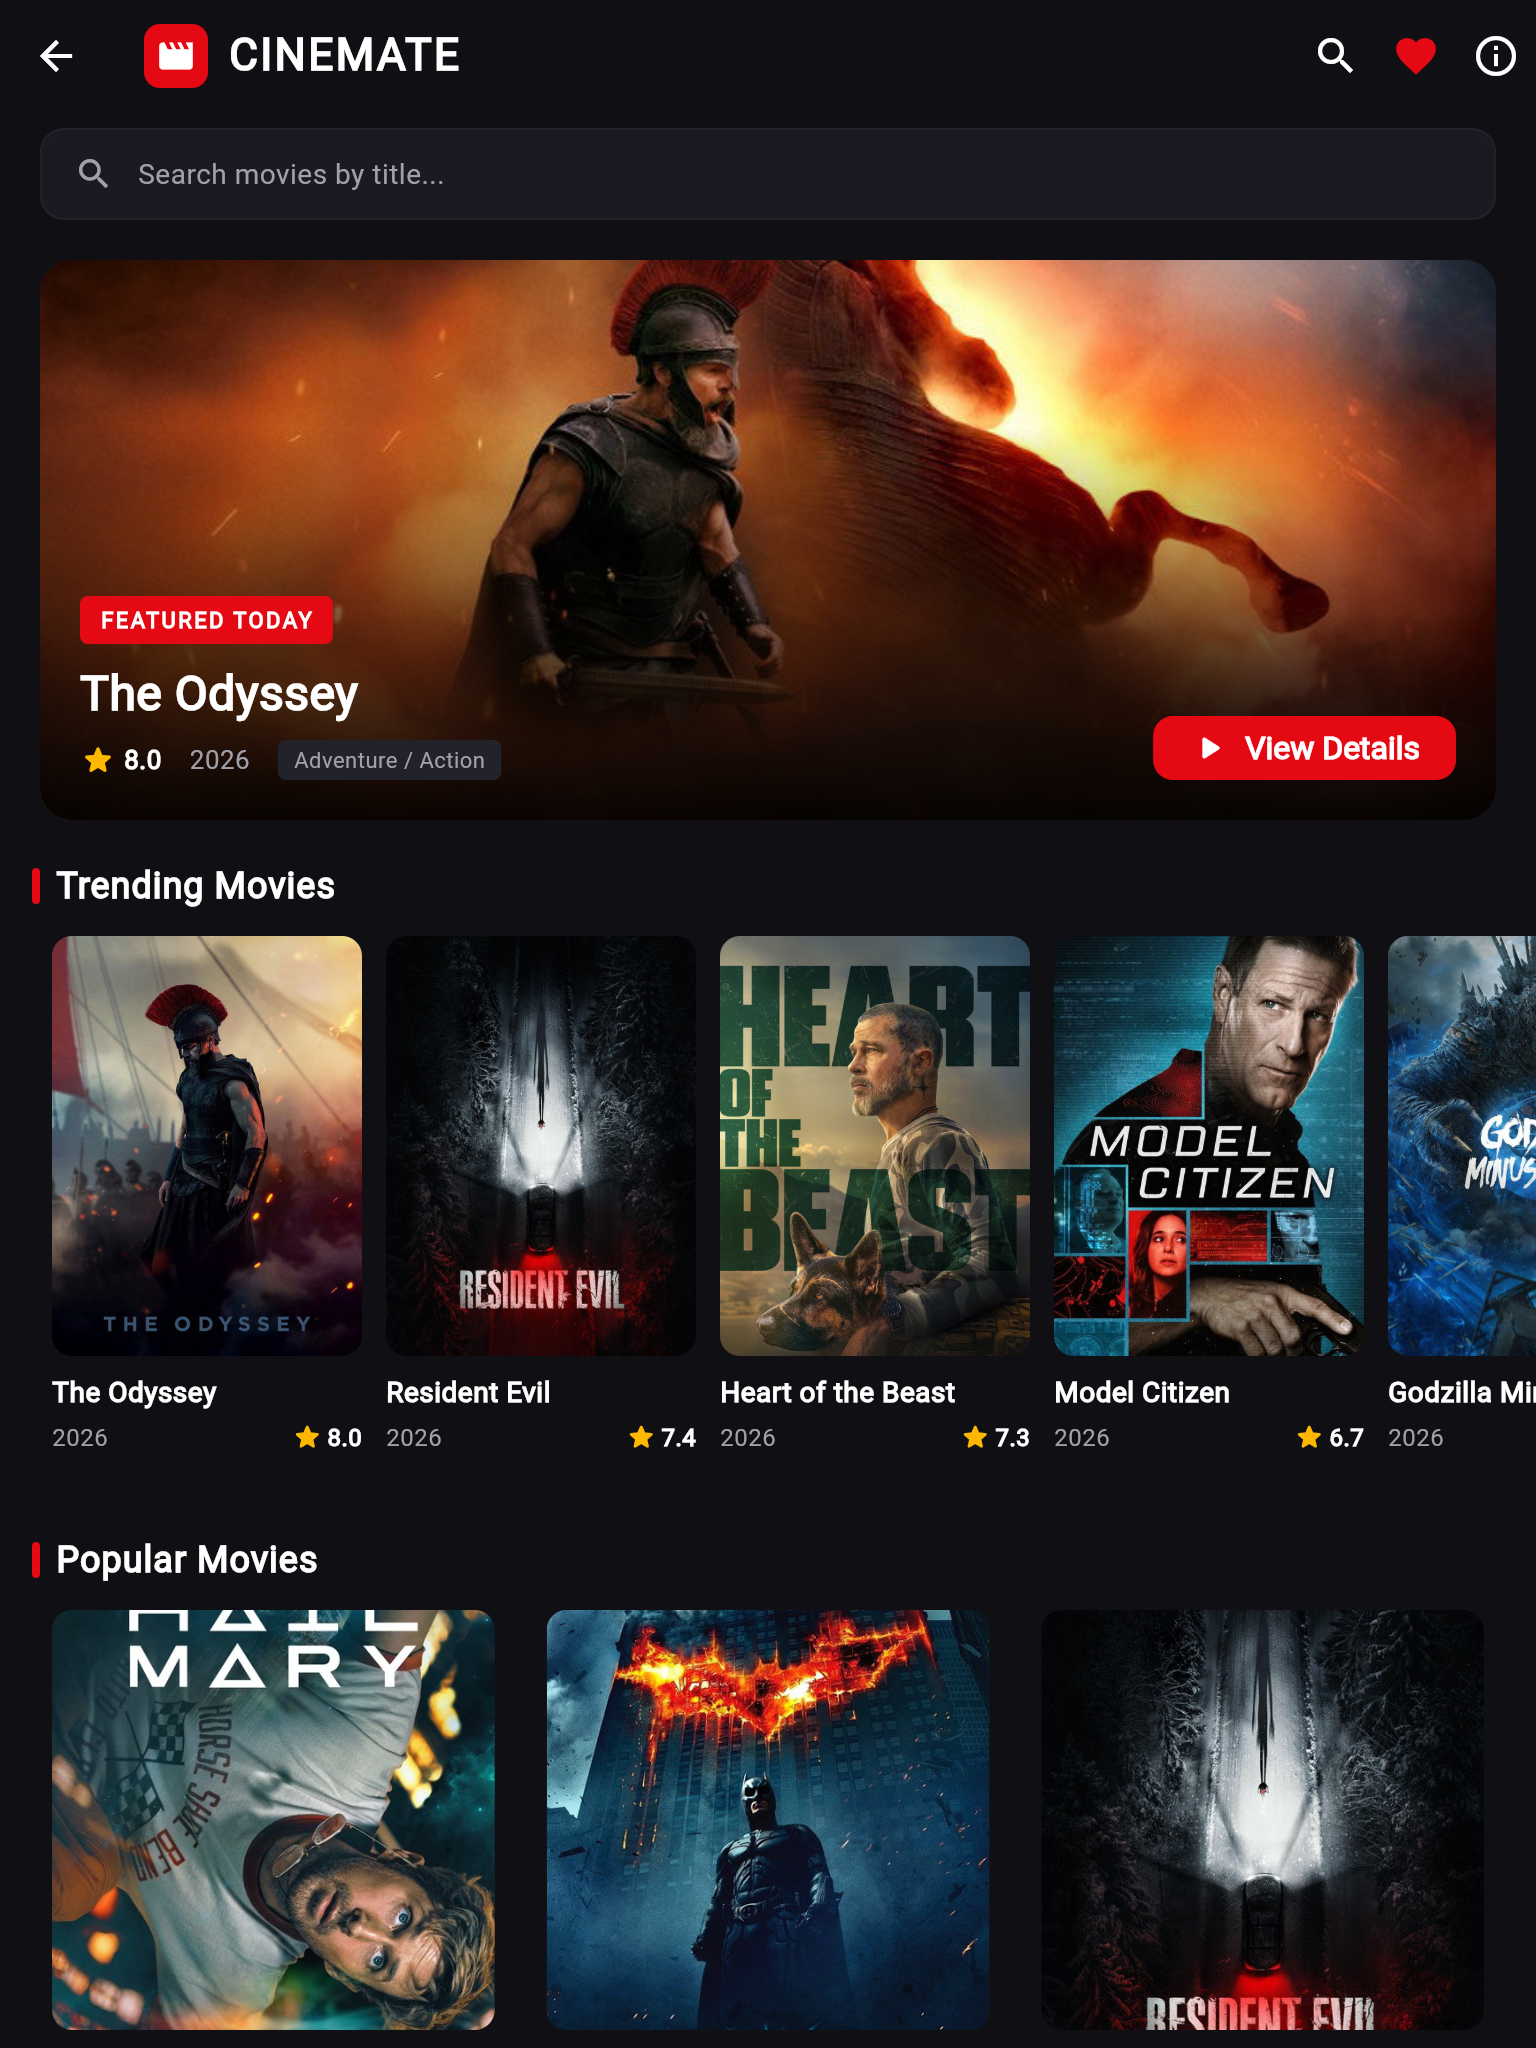
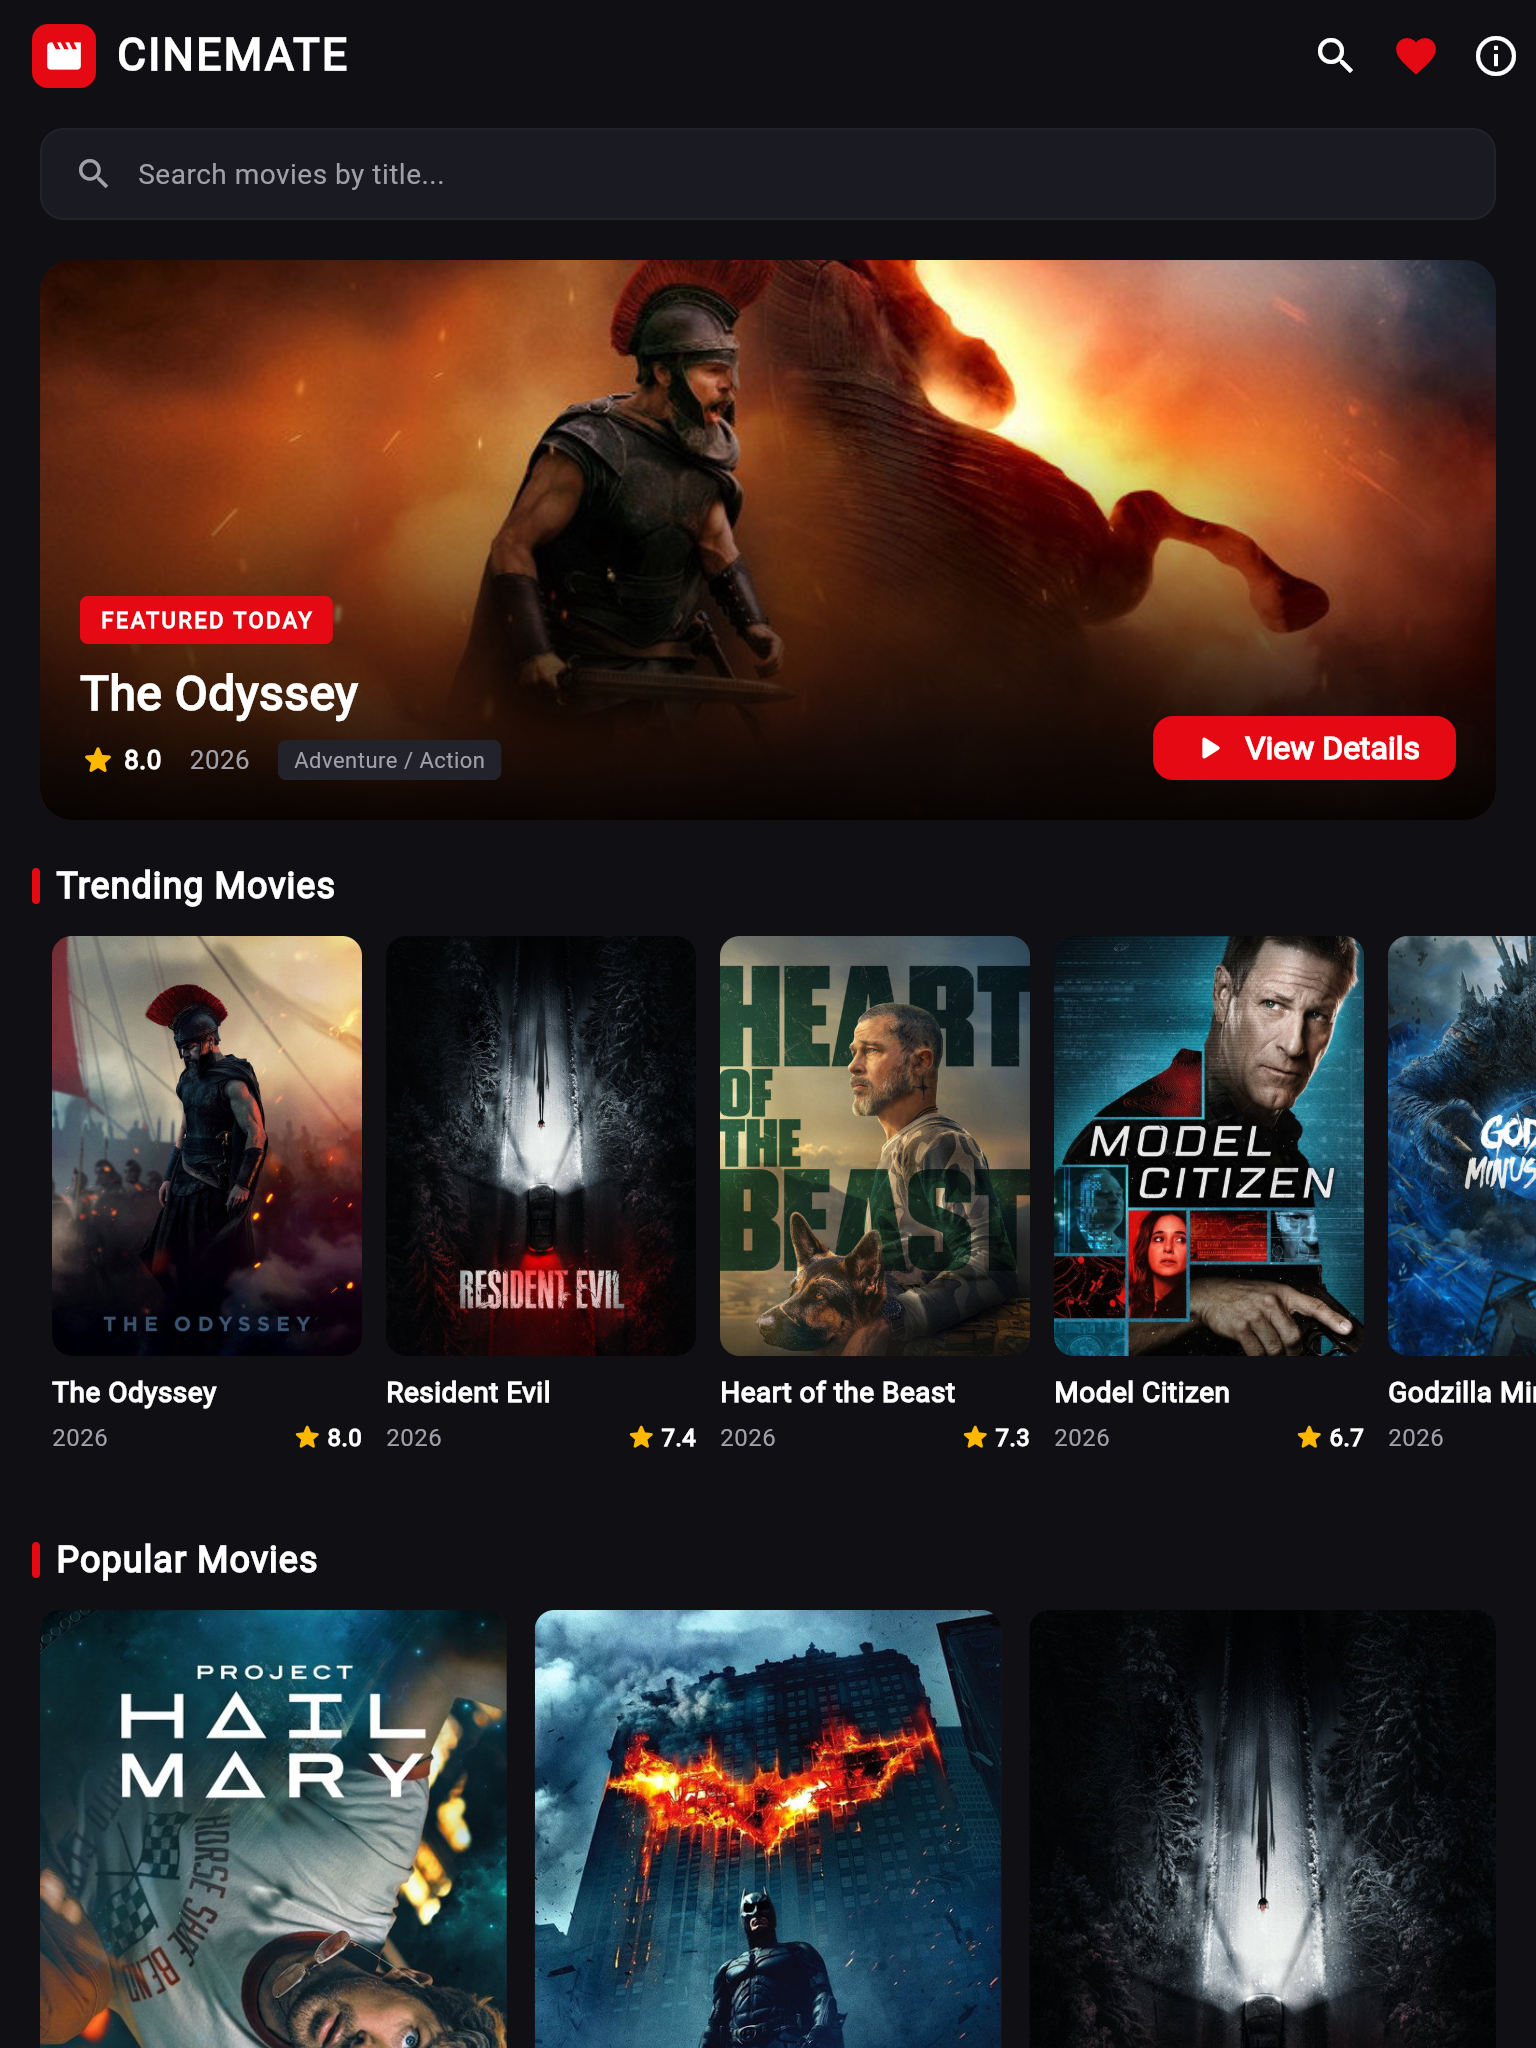
Fix grid vertical spacing gap by introducing adaptive Expanded posters in grid mode

Changed region(s): [[0.0, 0.7812, 0.6562, 1.0], [0.7188, 0.7812, 0.9375, 1.0], [0.0, 0.0, 0.3125, 0.0625]]

diff --git a/lib/widgets/movie_card.dart b/lib/widgets/movie_card.dart
@@ -7,15 +7,19 @@ import 'movie_poster.dart';
 /// 
 /// Demonstrates:
 /// - StatelessWidget
+/// - Adaptive layout:
+///     * Grid mode (isGrid: true): Poster uses Expanded to perfectly fill the cell
+///       without any awkward gaps.
+///     * List mode (isGrid: false): Uses fixed dimensions for horizontal carousels.
 /// - InkWell for tap interactions with ripple effect
-/// - Column and Row layouts
 /// - Text truncation with TextOverflow.ellipsis
 /// - Star rating display
 class MovieCard extends StatelessWidget {
   final Movie movie;
   final VoidCallback onTap;
-  final double width;
-  final double posterHeight;
+  final double? width;
+  final double? posterHeight;
+  final bool isGrid;
 
   const MovieCard({
     super.key,
@@ -23,29 +27,37 @@ class MovieCard extends StatelessWidget {
     required this.onTap,
     this.width = 140,
     this.posterHeight = 190,
+    this.isGrid = false,
   });
 
   @override
   Widget build(BuildContext context) {
+    final posterWidget = Hero(
+      tag: 'movie-poster-${movie.id}',
+      child: MoviePoster(
+        imageUrl: movie.posterUrl,
+        width: isGrid ? double.infinity : width,
+        height: isGrid ? double.infinity : posterHeight,
+        borderRadius: 10,
+        fit: BoxFit.cover,
+      ),
+    );
+
     return Container(
-      width: width,
-      margin: const EdgeInsets.symmetric(horizontal: 6.0),
+      width: isGrid ? null : width,
+      margin: EdgeInsets.symmetric(horizontal: isGrid ? 0.0 : 6.0),
       child: InkWell(
         onTap: onTap,
         borderRadius: BorderRadius.circular(10),
         child: Column(
           crossAxisAlignment: CrossAxisAlignment.start,
           children: [
-            // Poster with Hero animation
-            Hero(
-              tag: 'movie-poster-${movie.id}',
-              child: MoviePoster(
-                imageUrl: movie.posterUrl,
-                width: width,
-                height: posterHeight,
-                borderRadius: 10,
-              ),
-            ),
+            // In Grid mode, poster expands to fill available cell height
+            if (isGrid)
+              Expanded(child: posterWidget)
+            else
+              posterWidget,
+
             const SizedBox(height: 8),
 
             // Movie Title

diff --git a/lib/screens/favourites_screen.dart b/lib/screens/favourites_screen.dart
@@ -94,7 +94,7 @@ class FavouritesScreen extends StatelessWidget {
                   padding: EdgeInsets.symmetric(horizontal: horizontalPadding, vertical: 16),
                   gridDelegate: SliverGridDelegateWithFixedCrossAxisCount(
                     crossAxisCount: crossAxisCount,
-                    childAspectRatio: 0.65,
+                    childAspectRatio: 0.62,
                     crossAxisSpacing: 14,
                     mainAxisSpacing: 18,
                   ),
@@ -105,8 +105,7 @@ class FavouritesScreen extends StatelessWidget {
                       children: [
                         MovieCard(
                           movie: movie,
-                          width: double.infinity,
-                          posterHeight: 220,
+                          isGrid: true,
                           onTap: () {
                             Navigator.push(
                               context,

diff --git a/lib/screens/home_screen.dart b/lib/screens/home_screen.dart
@@ -271,7 +271,7 @@ class _HomeScreenState extends State<HomeScreen> {
                     shrinkWrap: true,
                     gridDelegate: SliverGridDelegateWithFixedCrossAxisCount(
                       crossAxisCount: crossAxisCount,
-                      childAspectRatio: 0.65,
+                      childAspectRatio: 0.62,
                       crossAxisSpacing: 14,
                       mainAxisSpacing: 18,
                     ),
@@ -280,8 +280,7 @@ class _HomeScreenState extends State<HomeScreen> {
                       final movie = _popularMovies[index];
                       return MovieCard(
                         movie: movie,
-                        width: double.infinity,
-                        posterHeight: cardPosterHeight,
+                        isGrid: true,
                         onTap: () => _openDetails(movie),
                       );
                     },

diff --git a/lib/screens/search_screen.dart b/lib/screens/search_screen.dart
@@ -184,7 +184,7 @@ class _SearchScreenState extends State<SearchScreen> {
       padding: EdgeInsets.symmetric(horizontal: horizontalPadding, vertical: 12),
       gridDelegate: SliverGridDelegateWithFixedCrossAxisCount(
         crossAxisCount: crossAxisCount,
-        childAspectRatio: 0.65,
+        childAspectRatio: 0.62,
         crossAxisSpacing: 14,
         mainAxisSpacing: 18,
       ),
@@ -193,8 +193,7 @@ class _SearchScreenState extends State<SearchScreen> {
         final movie = _searchResults[index];
         return MovieCard(
           movie: movie,
-          width: double.infinity,
-          posterHeight: 220,
+          isGrid: true,
           onTap: () {
             Navigator.push(
               context,
